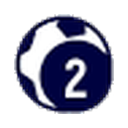
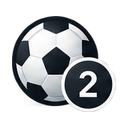
Icone evento rifatte: il disegno vero, non un ingrandimento
Le vecchie erano ritagliate da una tavola riepilogativa dove ogni icona
occupava 25-37 pixel veri, e venivano gonfiate tre volte per stare sui 113 su
una tela da 128. Tutto quello che si vedeva sullo schermo era un ingrandimento:
nessun filtro poteva rimetterci dentro il dettaglio, perche' non c'era mai
stato.

La tavola nuova (media/nuove-icone.png) porta 83-196 pixel veri per icona e ha
lo sfondo gia' trasparente. Quest'ultima cosa conta quanto la prima: sulle
vecchie lo sfondo era bianco, e toglierlo si sarebbe mangiato i bordi sfumati e
le ombre, cioe' proprio quello che le fa sembrare nitide.

Venti icone su ventiquattro sono nuove. Ogni sorgente viene RIDOTTA, mai
allargata, quindi non c'e' un pixel inventato.

scripts/ritaglia-tavola-eventi.py fa il ritaglio. La griglia non e' regolare
— cinque icone nelle prime tre righe, sei nell'ultima, spaziature che ballano —
quindi le celle non si calcolano dividendo: si trovano guardando dove c'e'
inchiostro, e le bande basse (le etichette) si scartano per altezza.

Tre disegni della tavola non tornavano:
  - "Espulsione" e' giallo+rosso, che pero' e' il DOPPIO giallo. Quel disegno
    e' finito su espulsione-x2, dov'e' giusto.
  - "Fuorigioco" e' lo stesso identico disegno a due cartellini: scartato. Il
    fuorigioco lo segnala la bandierina del guardalinee, non i cartellini.
  - "Rigore parato" e' il fischietto, identico a calcio-inizio: scartato. Un
    rigore parato vuole il guantone, come nella tavola vecchia.
[…]

diff --git a/sw.js b/sw.js
@@ -1,5 +1,5 @@
 /* Service worker — shell in cache, aggiornamento in background. */
-const VERSION = 'fcs-v4.2.24';
+const VERSION = 'fcs-v4.2.25';
 const SHELL = [
   './', './index.html', './manifest.webmanifest', './styles/app.css', './styles/logo.css', './styles/font.css', './design/tokens/tokens.css',
   // I caratteri stanno in casa: nella cache ci vanno, se no senza rete si vede

diff --git a/scripts/ritaglia-tavola-eventi.py b/scripts/ritaglia-tavola-eventi.py
@@ -1,0 +1,99 @@
+#!/usr/bin/env python3
+"""Ritaglia media/nuove-icone.png nelle singole icone evento.
+
+La tavola arriva con lo sfondo GIA' trasparente, che e' la ragione per cui si
+puo' usare: le vecchie erano su bianco, e togliere il bianco si mangiava i
+bordi sfumati e le ombre, cioe' proprio quello che le fa sembrare nitide.
+
+La griglia non e' regolare (cinque icone nelle prime tre righe, sei nell'ultima,
+spaziature che ballano), quindi le celle non si calcolano dividendo: si trovano
+guardando dove c'e' inchiostro. Le bande alte sono le icone, quelle basse le
+etichette sotto, e si scartano per altezza.
+
+Tre icone nella tavola non tornano e NON vengono scritte:
+  - fuorigioco    disegnato con due cartellini, identico a espulsione; il
+                  fuorigioco lo segnala la bandierina del guardalinee
+  - rigore-parato disegnato col fischietto, identico a calcio-inizio; un rigore
+                  parato vuole il guantone
+  - espulsione    disegnato giallo+rosso, che pero' e' il DOPPIO GIALLO: quel
+                  disegno finisce quindi su espulsione-x2, ed espulsione (il
+                  rosso diretto, un cartellino solo) resta quella vecchia
+Restano vecchie anche gol-pareggio e porta-inviolata, che nella tavola non ci
+sono.
+
+    python3 scripts/ritaglia-tavola-eventi.py [--prova]
+"""
+import sys
+from pathlib import Path
+from PIL import Image
+import numpy as np
+
+RADICE = Path(__file__).resolve().parent.parent
+TAVOLA = RADICE / 'media' / 'nuove-icone.png'
+# I ritagli a piena risoluzione restano qui: sono la sorgente, e da li'
+# normalizza-icone.py ricampiona UNA volta sola invece di ritoccare il file
+# gia' rimpicciolito. Su un'icona con tratti sottili il doppio ritocco si
+# vede: alla grandezza di schermo cambiava in media il 6% dei pixel.
+USCITA = RADICE / 'media' / 'icone-sorgenti' / 'eventi'
+IN_USO = RADICE / 'media' / 'icone' / 'eventi'
+
+# Nomi riga per riga, come stanno nella tavola. None = disegno da scartare.
+GRIGLIA = [
+    ['assist', 'assist-x2', 'autogol', 'gol', 'gol-x2'],
+    ['gol-vittoria', 'gol-subito', 'rigore-segnato', 'rigore-sbagliato', None],
+    ['sostituzione-out', 'sostituzione-in', None, 'ammonizione', 'espulsione-x2'],
+    ['azione-pericolosa', 'corner', 'calcio-inizio', 'capitano', 'palo', 'recupero'],
+]
+
+def bande(v, soglia=2, minimo=6):
+    """Gli intervalli in cui il vettore resta sopra soglia."""
+    out, inizio = [], None
+    for i, x in enumerate(v):
+        if x >= soglia and inizio is None:
+            inizio = i
+        elif x < soglia and inizio is not None:
+            if i - 1 - inizio >= minimo:
+                out.append((inizio, i - 1))
+            inizio = None
+    if inizio is not None and len(v) - 1 - inizio >= minimo:
+        out.append((inizio, len(v) - 1))
+    return out
+
+def main():
+    prova = '--prova' in sys.argv
+    USCITA.mkdir(parents=True, exist_ok=True)
+    im = Image.open(TAVOLA).convert('RGBA')
+    vivo = np.array(im)[:, :, 3] > 30
+    # le bande alte sono le icone, quelle da trenta pixel le etichette
+    righe = [b for b in bande(vivo.sum(axis=1)) if b[1] - b[0] > 60]
+    if len(righe) != len(GRIGLIA):
+        print(f'attese {len(GRIGLIA)} righe di icone, trovate {len(righe)}: {righe}', file=sys.stderr)
+        return 1
+    scritte = scartate = 0
+    for (r0, r1), nomi in zip(righe, GRIGLIA):
+        colonne = bande(vivo[r0:r1 + 1].sum(axis=0), soglia=1, minimo=10)
+        if len(colonne) != len(nomi):
+            print(f'riga {r0}-{r1}: attese {len(nomi)} icone, trovate {len(colonne)}', file=sys.stderr)
+            return 1
+        for (c0, c1), nome in zip(colonne, nomi):
+            if nome is None:
+                scartate += 1
+                continue
+            cella = im.crop((c0, r0, c1 + 1, r1 + 1))
+            # la banda e' alta quanto l'icona piu' alta della riga: si rifila
+            m = np.array(cella)[:, :, 3] > 30
+            ys, xs = np.where(m)
+            cella = cella.crop((xs.min(), ys.min(), xs.max() + 1, ys.max() + 1))
+            print(f'  {nome:20} {cella.size[0]:3}x{cella.size[1]:<3}')
+            if not prova:
+                cella.save(USCITA / f'{nome}.png')
+                # anche in uso, a piena risoluzione: ci pensa poi
+                # normalizza-icone.py a rimpicciolirla, una volta sola
+                cella.save(IN_USO / f'{nome}.png')
+            scritte += 1
+    print(f'\n{scritte} ritagliate, {scartate} scartate.'
+          + ('  prova: niente e\' stato scritto.' if prova else ''))
+    return 0
+
+if __name__ == '__main__':
+    sys.exit(main())

diff --git a/scripts/normalizza-icone.py b/scripts/normalizza-icone.py
@@ -61,24 +61,73 @@ def riquadro(alpha, soglia=40, minimo=8):
         raise ValueError('icona senza inchiostro')
     return int(xs[0]), int(ys[0]), int(xs[-1]) + 1, int(ys[-1]) + 1
 
-def normalizza(percorso, ottica, max_lato, prova):
+def _posa(ink, nw, nh, dx=0, dy=0):
+    """L'inchiostro riscalato e rimesso al centro della tela.
+
+    `dx`/`dy` servono a raddrizzare le icone con tratti staccati: dopo il
+    salvataggio la sfumatura di una riga di movimento puo' scendere sotto la
+    soglia da un lato solo, e il riquadro che si rilegge risulta spostato.
+    """
+    tela = Image.new('RGBA', (TELA, TELA), (0, 0, 0, 0))
+    tela.paste(ink.resize((nw, nh), Image.LANCZOS),
+               ((TELA - nw) // 2 + dx, (TELA - nh) // 2 + dy))
+    return tela
+
+
+def normalizza(percorso, ottica, max_lato, prova, sorgente=None):
+    """Porta un'icona alla grandezza ottica del gruppo.
+
+    Con `sorgente` (il ritaglio a piena risoluzione) il ricampionamento e'
+    sempre UNO, anche quando la misura va aggiustata: si riparte ogni volta
+    dai pixel originali invece di ritoccare il file gia' rimpicciolito.
+
+    L'aggiustamento serve perche' salvare cambia la misura: su un'icona con
+    tratti sottili — le righe di movimento di azione-pericolosa, il "2" di
+    assist-x2 — la sfumatura del bordo scende sotto la soglia e il riquadro
+    si legge piu' piccolo del dovuto. Senza ripartire dall'originale, il
+    giro dopo la si allargava, e ogni giro costava una ricampionatura: alla
+    grandezza di schermo cambiava in media il 6% dei pixel.
+    """
     im = Image.open(percorso).convert('RGBA')
     x0, y0, x1, y1 = riquadro(im.split()[3])
-    ink = im.crop((x0, y0, x1, y1))
-    w, h = ink.size
+    w, h = x1 - x0, y1 - y0
     k = min(ottica / math.sqrt(w * h), max_lato / w, max_lato / h)
     nw, nh = max(1, round(w * k)), max(1, round(h * k))
-    # Gia' a posto: non la si tocca. Il ritocco costerebbe una ricampionatura
-    # in piu' per niente, e un pixel sfumato che al secondo giro supera la
-    # soglia basterebbe a far ripartire il giro all'infinito.
+
     centrata = (abs(x0 - (TELA - w) // 2) <= 1 and abs(y0 - (TELA - h) // 2) <= 1)
+    # Gia' a posto: non la si tocca, cosi' rilanciare lo script non costa
+    # niente e non cambia un byte.
     if abs(k - 1) < 0.005 and (nw, nh) == (w, h) and centrata:
         return (w, h), (nw, nh)
-    tela = Image.new('RGBA', (TELA, TELA), (0, 0, 0, 0))
-    tela.paste(ink.resize((nw, nh), Image.LANCZOS), ((TELA - nw) // 2, (TELA - nh) // 2))
+
+    if sorgente is None or not sorgente.exists():
+        if not prova:
+            _posa(im.crop((x0, y0, x1, y1)), nw, nh).save(percorso)
+        return (w, h), (nw, nh)
+
+    src = Image.open(sorgente).convert('RGBA')
+    sb = riquadro(src.split()[3])
+    ink = src.crop(sb)
+    sw, sh = sb[2] - sb[0], sb[3] - sb[1]
+    k = min(ottica / math.sqrt(sw * sh), max_lato / sw, max_lato / sh)
+    dx = dy = 0
+    for _ in range(8):
+        nw, nh = max(1, round(sw * k)), max(1, round(sh * k))
+        tela = _posa(ink, nw, nh, dx, dy)
+        mb = riquadro(tela.split()[3])
+        mw, mh = mb[2] - mb[0], mb[3] - mb[1]
+        letta = math.sqrt(mw * mh)
+        # il tetto sul lato vince sempre: li' la misura giusta e' quella, non il bersaglio
+        al_tetto = max(nw, nh) >= max_lato
+        fuori = round((TELA - mw) / 2 - mb[0]), round((TELA - mh) / 2 - mb[1])
+        if (al_tetto or abs(letta / ottica - 1) < 0.005) and max(abs(fuori[0]), abs(fuori[1])) <= 1:
+            break
+        dx += fuori[0]; dy += fuori[1]
+        if not al_tetto:
+            k *= ottica / letta
     if not prova:
         tela.save(percorso)
-    return (w, h), (nw, nh)
+    return (w, h), (mb[2] - mb[0], mb[3] - mb[1])
 
 def main():
     voci = [a for a in sys.argv[1:] if not a.startswith('-')]
@@ -95,7 +144,8 @@ def main():
         file = ([cartella / f'{n}.png' for n in cfg['icone']] if cfg['icone']
                 else sorted(cartella.glob('*.png')))
         for p in file:
-            (w, h), (nw, nh) = normalizza(p, cfg['ottica'], cfg['max_lato'], prova)
+            sorg = RADICE.parent / 'icone-sorgenti' / g / p.name
+            (w, h), (nw, nh) = normalizza(p, cfg['ottica'], cfg['max_lato'], prova, sorg)
             o = math.sqrt(nw * nh)
             esiti.append(o)
             print(f'  {p.stem:22} {w:4}x{h:<6} {nw:4}x{nh:<6}   {100*(o/cfg["ottica"]-1):+5.1f}%')

diff --git a/scripts/cartellino-rosso.py b/scripts/cartellino-rosso.py
@@ -1,0 +1,53 @@
+#!/usr/bin/env python3
+"""Ricava il cartellino rosso da quello giallo, ruotando la tinta.
+
+Nella tavola nuova il rosso diretto non c'e': il disegno etichettato
+"Espulsione" e' giallo+rosso, che pero' e' il DOPPIO giallo, e finisce infatti
+su espulsione-x2. Il rosso diretto e' un cartellino solo.
+
+Ma un cartellino rosso e' lo stesso oggetto di quello giallo in un altro
+colore, quindi non c'e' niente da inventare: si prende il giallo della tavola e
+gli si ruota la tinta fino al rosso della tavola stessa — misurato sul
+cartellino rosso che nel doppio giallo c'e' gia'. Ombre, riflesso e bordi
+sfumati restano quelli, perche' si tocca solo la tinta e si lascia stare
+quanto e' chiaro o scuro ogni pixel.
+
+I grigi e i bianchi non si toccano: sotto una certa saturazione la tinta non
+vuol dire niente e ruotarla sporcherebbe il riflesso.
+
+    python3 scripts/cartellino-rosso.py
+"""
+import colorsys
+from pathlib import Path
+from PIL import Image
+import numpy as np
+
+RADICE = Path(__file__).resolve().parent.parent / 'media'
+SORGENTI = RADICE / 'icone-sorgenti' / 'eventi'
+
+TINTA_GIALLO, SAT_GIALLO = 0.1072, 0.924   # misurate su espulsione-x2
+TINTA_ROSSO, SAT_ROSSO = 0.9675, 0.957
+
+def main():
+    src = Image.open(SORGENTI / 'ammonizione.png').convert('RGBA')
+    a = np.array(src).astype(float)
+    rgb, alpha = a[:, :, :3] / 255, a[:, :, 3]
+    giro = (TINTA_ROSSO - TINTA_GIALLO) % 1.0
+    fuori = np.zeros_like(rgb)
+    for y in range(rgb.shape[0]):
+        for x in range(rgb.shape[1]):
+            if alpha[y, x] == 0:
+                continue
+            h, s, v = colorsys.rgb_to_hsv(*rgb[y, x])
+            if s > 0.25:                       # solo il colore, non grigi e riflessi
+                h = (h + giro) % 1.0
+                s = min(1.0, s * (SAT_ROSSO / SAT_GIALLO))
+            fuori[y, x] = colorsys.hsv_to_rgb(h, s, v)
+    out = np.dstack([np.clip(fuori * 255, 0, 255), alpha]).astype(np.uint8)
+    Image.fromarray(out, 'RGBA').save(SORGENTI / 'espulsione.png')
+    # anche in uso a piena risoluzione: la rimpicciolisce normalizza-icone.py
+    Image.fromarray(out, 'RGBA').save(RADICE / 'icone' / 'eventi' / 'espulsione.png')
+    print(f'espulsione.png dal giallo, tinta ruotata di {giro:.4f}  ({src.size[0]}x{src.size[1]})')
+
+if __name__ == '__main__':
+    main()
